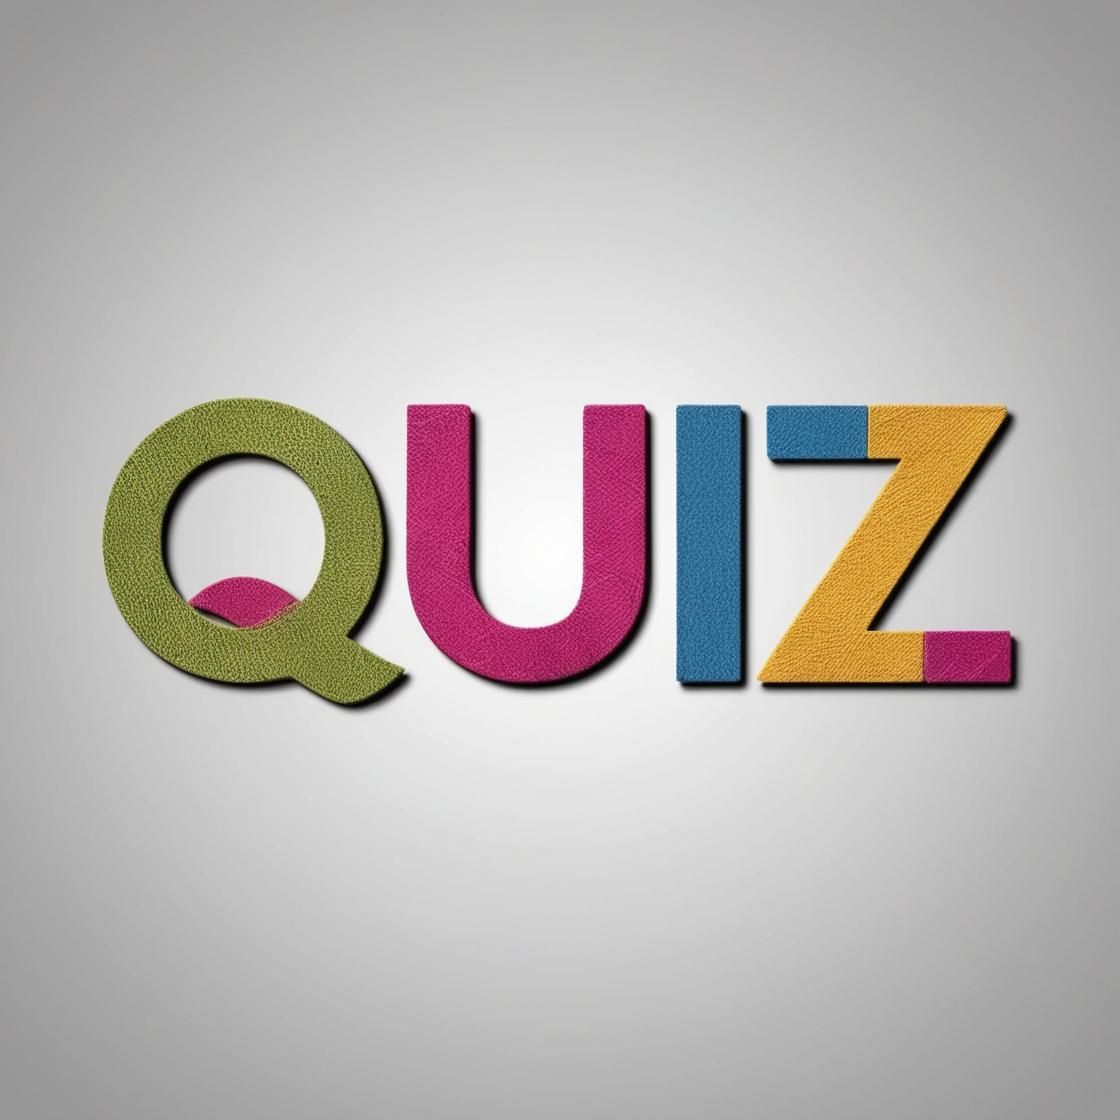
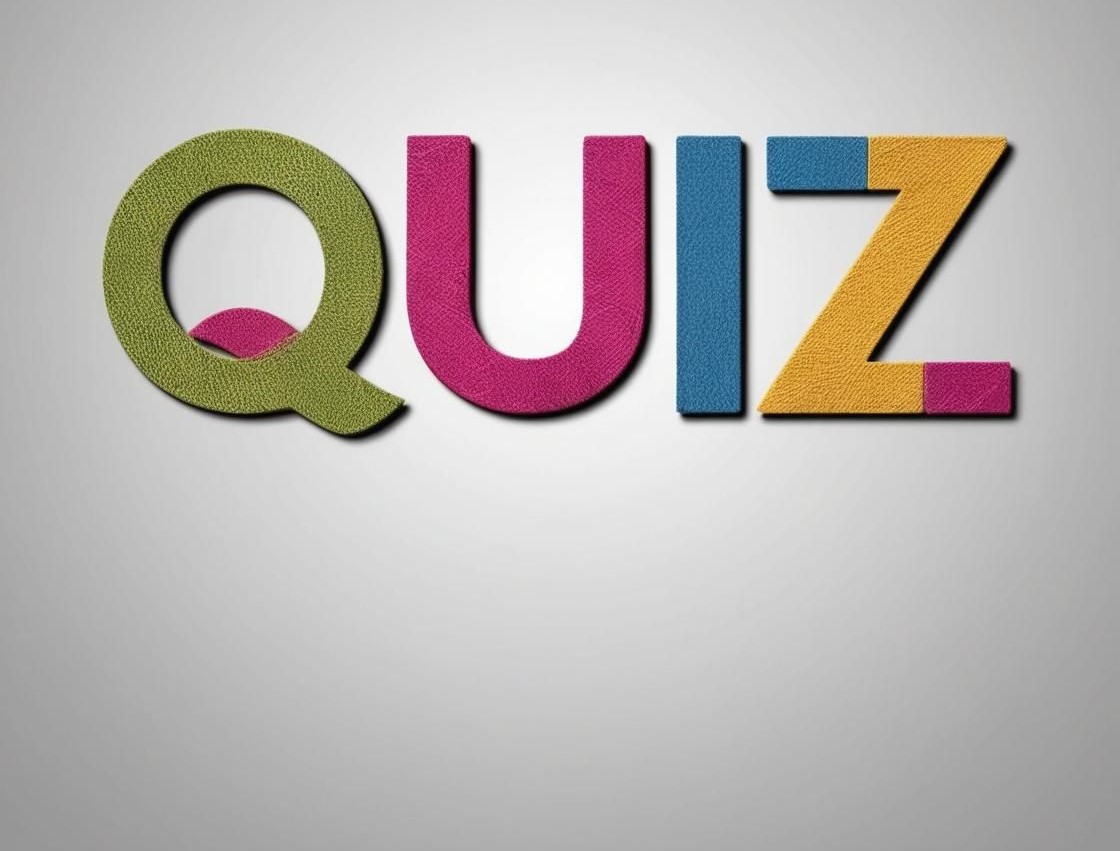
Changes made 5

diff --git a/Welcome.html b/Welcome.html
@@ -11,7 +11,7 @@
             display: flex;
             justify-content: center;
             align-items: center;
-            height: 280vh;
+            height: 320vh;
             margin: 0;
             background-image: url('BG.jpg'); /* Optional: Add background image */
             background-size: cover;
@@ -26,15 +26,18 @@
             border-radius: 5px;
             box-shadow: 0 2px 10px rgba(0, 0, 0, 0.1);
             width:250vh;
-            height: 210vh;
+            height: 275vh;
             max-width: 1000px;
             text-align: center;
         }
         h1 {
             color: #ffffff;
-            font-size: 34px;
-            margin-bottom: 20px;
+            font-size: 54px;
+            margin-bottom: 30px;
+            text-shadow: 0 0 5px #4917ed, 0 0 10px #ff0000, 0 0 15px #281be4; 
             font-weight: bold;
+            position: relative;
+            z-index: 1;
         }
         .event-list {
             display: grid;
@@ -48,7 +51,7 @@
             background-image: url('QUIZ.jpg'); /* Optional: Add background image */
             background-size:cover;
             padding: 25px;
-            box-shadow: 0 2px 8px rgba(0, 0, 0, 0.1);
+            box-shadow: 0 3px 25px rgba(1, 1, 1, 1);
             text-align: center;
             display: flex;
             flex-direction: column;
@@ -63,7 +66,7 @@
             background-size:cover;
             background-position: center;
             padding: 25px;
-            box-shadow: 0 2px 8px rgba(0, 0, 0, 0.1);
+            box-shadow: 0 3px 25px rgba(1, 1, 1, 1);
             text-align: center;
             display: flex;
             flex-direction: column;
@@ -78,7 +81,7 @@
             background-size:cover;
             background-position: center;
             padding: 25px;
-            box-shadow: 0 2px 8px rgba(0, 0, 0, 0.1);
+            box-shadow: 0 3px 25px rgba(1, 1, 1, 1);
             text-align: center;
             display: flex;
             flex-direction: column;
@@ -92,7 +95,7 @@
             background-image: url('IOT.jpg'); /* Optional: Add background image */
             background-size:cover;
             padding: 25px;
-            box-shadow: 0 2px 8px rgba(0, 0, 0, 0.1);
+            box-shadow: 0 3px 25px rgba(1, 1, 1, 1);
             text-align: center;
             display: flex;
             flex-direction: column;
@@ -106,7 +109,7 @@
             background-image: url('APPVENTURE.jpg'); /* Optional: Add background image */
             background-size:cover;
             padding: 25px;
-            box-shadow: 0 2px 8px rgba(0, 0, 0, 0.1);
+            box-shadow: 0 3px 25px rgba(1, 1, 1, 1);
             text-align: center;
             display: flex;
             flex-direction: column;
@@ -120,7 +123,7 @@
             background-image: url('UI.jpg'); /* Optional: Add background image */
             background-size:cover;
             padding: 25px;
-            box-shadow: 0 2px 8px rgba(0, 0, 0, 0.1);
+            box-shadow: 0 3px 25px rgba(1, 1, 1, 1);
             text-align: center;
             display: flex;
             flex-direction: column;
@@ -134,7 +137,7 @@
             background-image: url('ML_AI.jpg'); /* Optional: Add background image */
             background-size:cover;
             padding: 25px;
-            box-shadow: 0 2px 8px rgba(0, 0, 0, 0.1);
+            box-shadow: 0 3px 25px rgba(1, 1, 1, 1);
             text-align: center;
             display: flex;
             flex-direction: column;
@@ -148,7 +151,7 @@
             background-image: url('MOM.jpg'); /* Optional: Add background image */
             background-size:cover;
             padding: 25px;
-            box-shadow: 0 2px 8px rgba(0, 0, 0, 0.1);
+            box-shadow: 0 3px 25px rgba(1, 1, 1, 1);
             text-align: center;
             display: flex;
             flex-direction: column;
@@ -162,7 +165,7 @@
             background-image: url('CF.jpg'); /* Optional: Add background image */
             background-size:cover;
             padding: 25px;
-            box-shadow: 0 2px 8px rgba(0, 0, 0, 0.1);
+            box-shadow: 0 3px 25px rgba(1, 1, 1, 1);
             text-align: center;
             display: flex;
             flex-direction: column;
@@ -176,7 +179,7 @@
             background-image: url('KAROKE.jpg'); /* Optional: Add background image */
             background-size:cover;
             padding: 25px;
-            box-shadow: 0 2px 8px rgba(0, 0, 0, 0.1);
+            box-shadow: 0 3px 25px rgba(1, 1, 1, 1);
             text-align: center;
             display: flex;
             flex-direction: column;
@@ -190,7 +193,7 @@
             background-image: url('IMAGE_FINDER.jpg'); /* Optional: Add background image */
             background-size:cover;
             padding: 25px;
-            box-shadow: 0 2px 8px rgba(0, 0, 0, 0.1);
+            box-shadow: 0 3px 25px rgba(1, 1, 1, 1);
             text-align: center;
             display: flex;
             flex-direction: column;
@@ -204,7 +207,7 @@
             background-image: url('AM.jpg'); /* Optional: Add background image */
             background-size:cover;
             padding: 25px;
-            box-shadow: 0 2px 8px rgba(0, 0, 0, 0.1);
+            box-shadow: 0 3px 25px rgba(1, 1, 1, 1);
             text-align: center;
             display: flex;
             flex-direction: column;
@@ -223,6 +226,7 @@
             padding: 8px;
             border: none;
             border-radius: 4px;
+            box-shadow: 0 3px 9px rgba(1, 1, 1, 1);
             cursor: pointer;
             text-decoration: none;
             display: inline-block;
@@ -237,19 +241,21 @@
             margin-bottom: 10px;
         }
         .white-text {
-        color: rgba(255, 255, 255, 0.751);
+        color: rgba(0, 0, 0, 0.751);
+        margin-bottom: 20px;
+        text-align: left;
         }
     </style>
 </head>
 <body>
     <div class="container">
-       
-        <p> </p>
         <h1>Welcome to SPARK'S 2024</h1>
-        <p> </p>
-        <p class="white-text">Click the below Button to Registering the Event...!</p>
+        <p class="white-text"style="font-size:19px;">SPARK'S 2024 is an innovative platform designed to inspire creativity and collaboration among students and professionals in various fields. This event features a range of engaging activities, workshops, and competitions that encourage participants to showcase their skills, learn from industry experts, and connect with like-minded individuals.</p>
+        <br>
+        <p class="white-text" style="text-align: center;">Click the below Button to Registering the Event...!</p>
         <a href="event_register.html" class="button">Click Here To Register For Event</a>
-        <p> </p>
+        <p>  </p>
+        <br>
         <p class="white-text">Click the Know more button to see the Event Descriptions...! </p>
         <div class="event-list">
             <div class="IS">
@@ -301,6 +307,15 @@
                 <a href="Aperture Magic.html" class="button">Know More</a>
             </div>
         </div>
+        <br> 
+        <br>
+            <p class="white-text"style="font-size:19px;">Benefits for Career Development:</p>
+            <p class="white-text">1.Skill Enhancement: Participants have the opportunity to attend workshops and masterclasses led by industry professionals, helping them acquire new skills and knowledge relevant to their career paths.</p>
+            <p class="white-text">2.Networking Opportunities: The event brings together a diverse group of attendees, including students, educators, and industry leaders. This creates a valuable networking environment where participants can build connections that may lead to internships, job opportunities, or collaborations.</p>
+            <p class="white-text">3.Hands-On Experience: By engaging in practical activities and challenges, attendees gain hands-on experience that is often sought after by employers. This practical exposure can enhance resumes and make candidates more attractive to potential employers.</p>
+            <p class="white-text">4.Showcasing Talent: SPARK'S 2024 provides a platform for participants to showcase their talents through competitions and presentations, allowing them to gain recognition and build their personal brand.</p>
+            <p class="white-text">5.Inspiration and Motivation: The event serves as a source of inspiration, motivating participants to pursue their career goals with renewed passion and determination..</p>
+            <br> 
     </div>
 </body>
 </html>

diff --git a/event_register.html b/event_register.html
@@ -69,22 +69,22 @@
         <h2>Event Registration</h2>
         <form action="event_register.php" method="post">
             <label for="reg_no">Register Number</label>
-            <input type="text" id="reg_no" name="reg_no" required>
+            <input type="text" id="reg_no" name="reg_no" placeholder="Enter Register Number" required>
             
             <label for="name">Name</label>
-            <input type="text" id="name" name="name" required>
+            <input type="text" id="name" name="name" placeholder="Enter Name" required>
             
             <label for="department">Department</label>
-            <input type="text" id="department" name="department" required>
+            <input type="text" id="department" name="department" placeholder="Enter Department" required>
             
             <label for="year">Year</label>
-            <input type="number" id="year" name="year" required min="1" max="5">
+            <input type="number" id="year" name="year" placeholder="Enter Year" required min="1" max="4">
             
             <label for="email">Mail ID</label>
-            <input type="email" id="email" name="email" required>
+            <input type="email" id="email" name="email" placeholder="Enter Valid Email ID " required>
             
             <label for="contact_no">Contact Number</label>
-            <input type="number" id="contact_no" name="contact_no" required>
+            <input type="number" id="contact_no" name="contact_no" placeholder="Enter Valid Contact Number" required>
             
             <div class="events">
                 <label>1.Technical Events</label>
